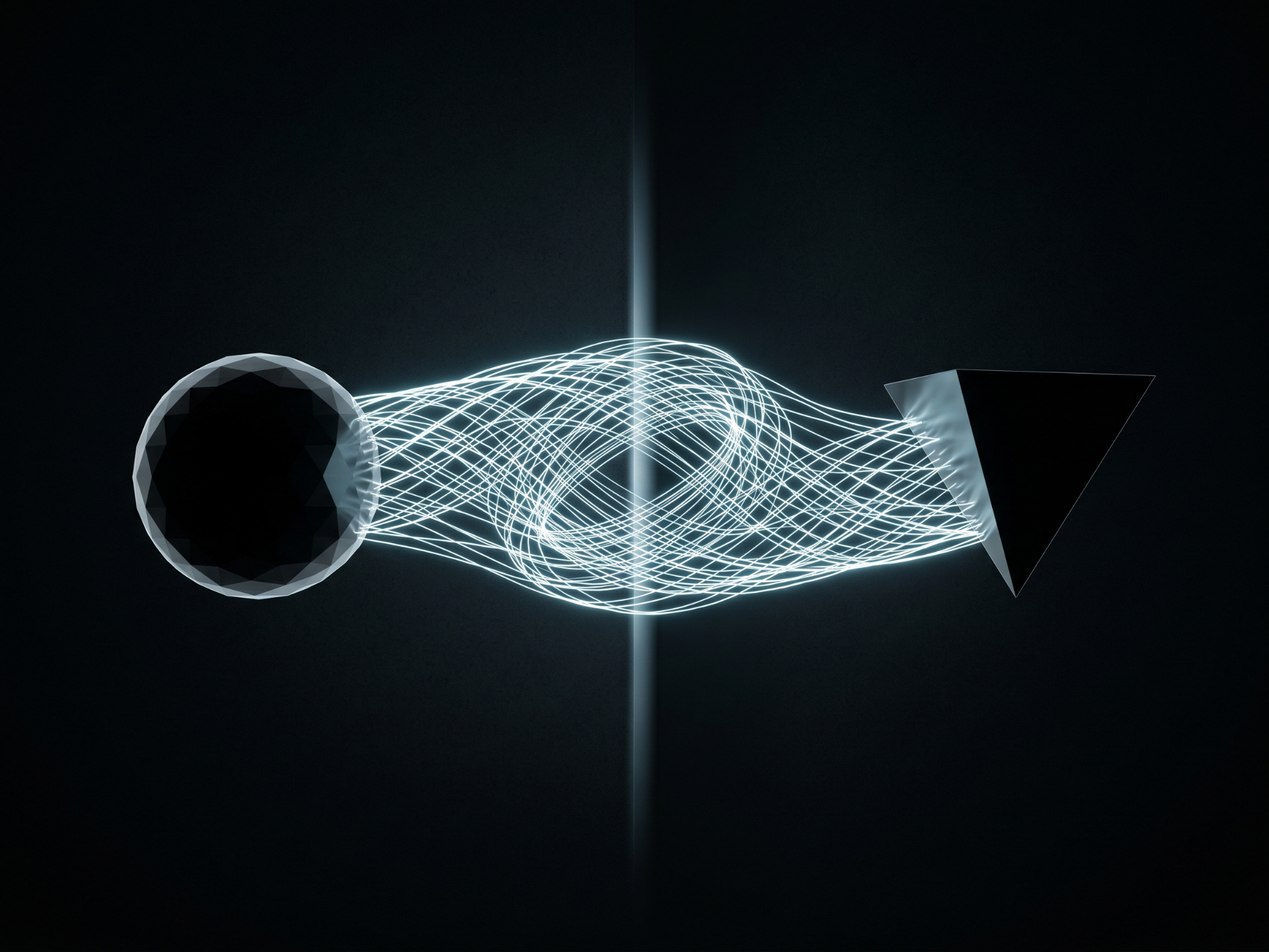
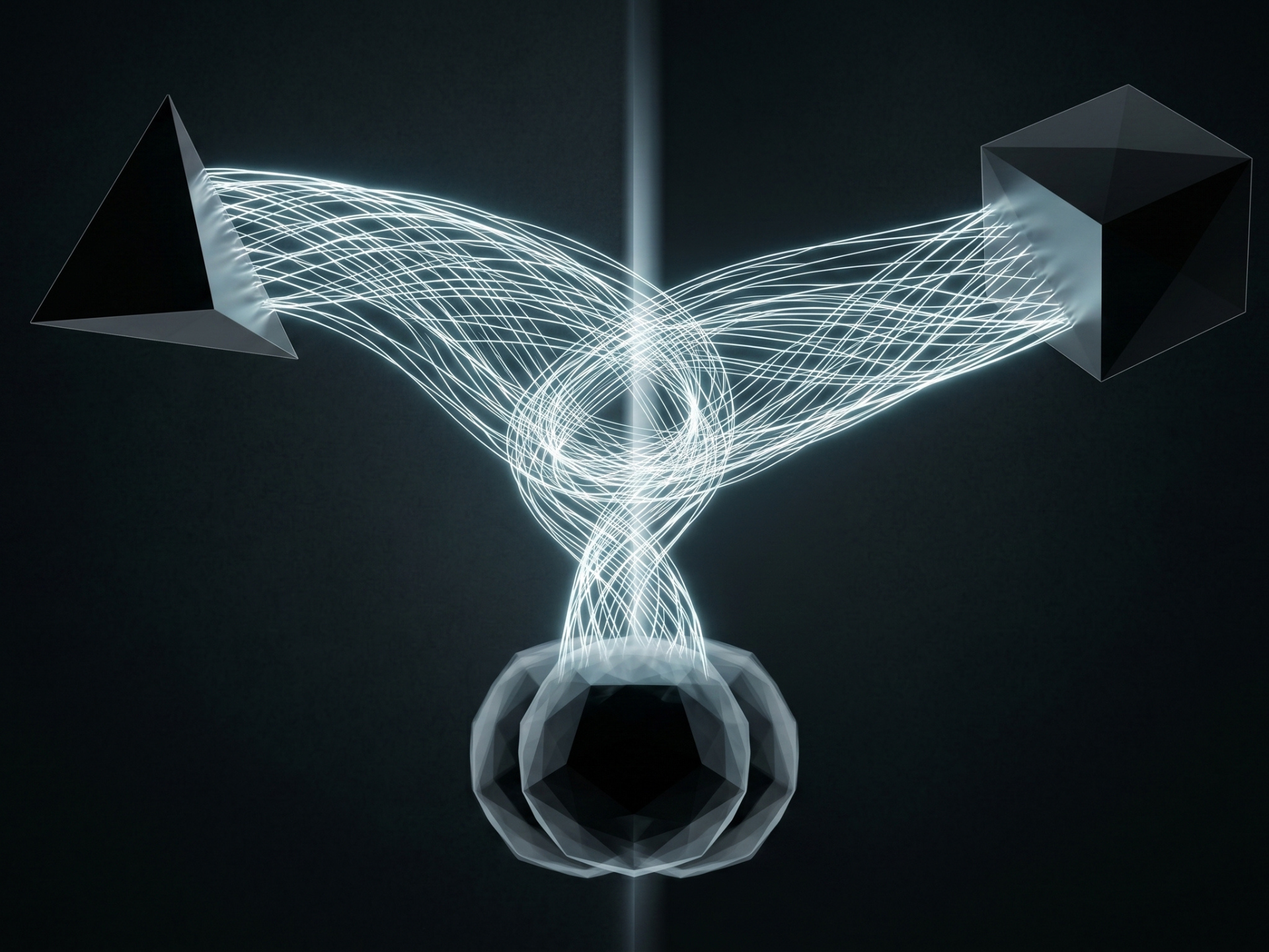
Updated site

diff --git a/public/notes/16.pruebas-conocimiento/index.html b/public/notes/16.pruebas-conocimiento/index.html
@@ -803,12 +803,12 @@
       
         <source
           
-            srcset="/notes/16.pruebas-conocimiento/feature%20pruebas%20-%20conocimiento_hu15342808889232261094.webp 330w,/notes/16.pruebas-conocimiento/feature%20pruebas%20-%20conocimiento_hu302076468594900464.webp 660w
+            srcset="/notes/16.pruebas-conocimiento/feature%20pruebas%20-%20conocimiento_hu4576770039757172892.webp 330w,/notes/16.pruebas-conocimiento/feature%20pruebas%20-%20conocimiento_hu9862964370715835621.webp 660w
             
-              ,/notes/16.pruebas-conocimiento/feature%20pruebas%20-%20conocimiento_hu7465890808314095603.webp 1024w
+              ,/notes/16.pruebas-conocimiento/feature%20pruebas%20-%20conocimiento_hu1569523391543265199.webp 1024w
             
             
-              ,/notes/16.pruebas-conocimiento/feature%20pruebas%20-%20conocimiento_hu8063262253952972930.webp 1320w
+              ,/notes/16.pruebas-conocimiento/feature%20pruebas%20-%20conocimiento_hu9343412628466673134.webp 1320w
             "
           
           sizes="100vw"
@@ -822,13 +822,13 @@
         
         
         
-          src="/notes/16.pruebas-conocimiento/feature%20pruebas%20-%20conocimiento_hu15278902798827181149.png"
-          srcset="/notes/16.pruebas-conocimiento/feature%20pruebas%20-%20conocimiento_hu876523112635532990.png 330w,/notes/16.pruebas-conocimiento/feature%20pruebas%20-%20conocimiento_hu15278902798827181149.png 660w
+          src="/notes/16.pruebas-conocimiento/feature%20pruebas%20-%20conocimiento_hu8401581999442676050.png"
+          srcset="/notes/16.pruebas-conocimiento/feature%20pruebas%20-%20conocimiento_hu10972861285144593126.png 330w,/notes/16.pruebas-conocimiento/feature%20pruebas%20-%20conocimiento_hu8401581999442676050.png 660w
           
-            ,/notes/16.pruebas-conocimiento/feature%20pruebas%20-%20conocimiento_hu11979612244376914458.png 1024w
+            ,/notes/16.pruebas-conocimiento/feature%20pruebas%20-%20conocimiento_hu5442007655515730790.png 1024w
           
           
-            ,/notes/16.pruebas-conocimiento/feature%20pruebas%20-%20conocimiento_hu1991757696374065138.png 1320w
+            ,/notes/16.pruebas-conocimiento/feature%20pruebas%20-%20conocimiento_hu8947195007989067259.png 1320w
           "
           sizes="100vw"
         

diff --git a/public/notes/index.html b/public/notes/index.html
@@ -573,9 +573,9 @@
         <img
           alt=""
           
-            class="w-24 rounded-md sm:w-40" srcset="/notes/16.pruebas-conocimiento/feature%20pruebas%20-%20conocimiento_hu11982890800012912162.png
-            160w,/notes/16.pruebas-conocimiento/feature%20pruebas%20-%20conocimiento_hu18434504839941555512.png 2x"
-            src="/notes/16.pruebas-conocimiento/feature%20pruebas%20-%20conocimiento_hu11982890800012912162.png" width="160" height="120"
+            class="w-24 rounded-md sm:w-40" srcset="/notes/16.pruebas-conocimiento/feature%20pruebas%20-%20conocimiento_hu8405966191365703007.png
+            160w,/notes/16.pruebas-conocimiento/feature%20pruebas%20-%20conocimiento_hu5913706382165335046.png 2x"
+            src="/notes/16.pruebas-conocimiento/feature%20pruebas%20-%20conocimiento_hu8405966191365703007.png" width="160" height="120"
           
           
             loading="lazy"

diff --git a/public/tags/confianza/index.html b/public/tags/confianza/index.html
@@ -411,9 +411,9 @@
         <img
           alt=""
           
-            class="w-24 rounded-md sm:w-40" srcset="/notes/16.pruebas-conocimiento/feature%20pruebas%20-%20conocimiento_hu11982890800012912162.png
-            160w,/notes/16.pruebas-conocimiento/feature%20pruebas%20-%20conocimiento_hu18434504839941555512.png 2x"
-            src="/notes/16.pruebas-conocimiento/feature%20pruebas%20-%20conocimiento_hu11982890800012912162.png" width="160" height="120"
+            class="w-24 rounded-md sm:w-40" srcset="/notes/16.pruebas-conocimiento/feature%20pruebas%20-%20conocimiento_hu8405966191365703007.png
+            160w,/notes/16.pruebas-conocimiento/feature%20pruebas%20-%20conocimiento_hu5913706382165335046.png 2x"
+            src="/notes/16.pruebas-conocimiento/feature%20pruebas%20-%20conocimiento_hu8405966191365703007.png" width="160" height="120"
           
           
             loading="lazy"

diff --git a/public/tags/conocimiento/index.html b/public/tags/conocimiento/index.html
@@ -411,9 +411,9 @@
         <img
           alt=""
           
-            class="w-24 rounded-md sm:w-40" srcset="/notes/16.pruebas-conocimiento/feature%20pruebas%20-%20conocimiento_hu11982890800012912162.png
-            160w,/notes/16.pruebas-conocimiento/feature%20pruebas%20-%20conocimiento_hu18434504839941555512.png 2x"
-            src="/notes/16.pruebas-conocimiento/feature%20pruebas%20-%20conocimiento_hu11982890800012912162.png" width="160" height="120"
+            class="w-24 rounded-md sm:w-40" srcset="/notes/16.pruebas-conocimiento/feature%20pruebas%20-%20conocimiento_hu8405966191365703007.png
+            160w,/notes/16.pruebas-conocimiento/feature%20pruebas%20-%20conocimiento_hu5913706382165335046.png 2x"
+            src="/notes/16.pruebas-conocimiento/feature%20pruebas%20-%20conocimiento_hu8405966191365703007.png" width="160" height="120"
           
           
             loading="lazy"

diff --git a/public/tags/criptografía/index.html b/public/tags/criptografía/index.html
@@ -411,9 +411,9 @@
         <img
           alt=""
           
-            class="w-24 rounded-md sm:w-40" srcset="/notes/16.pruebas-conocimiento/feature%20pruebas%20-%20conocimiento_hu11982890800012912162.png
-            160w,/notes/16.pruebas-conocimiento/feature%20pruebas%20-%20conocimiento_hu18434504839941555512.png 2x"
-            src="/notes/16.pruebas-conocimiento/feature%20pruebas%20-%20conocimiento_hu11982890800012912162.png" width="160" height="120"
+            class="w-24 rounded-md sm:w-40" srcset="/notes/16.pruebas-conocimiento/feature%20pruebas%20-%20conocimiento_hu8405966191365703007.png
+            160w,/notes/16.pruebas-conocimiento/feature%20pruebas%20-%20conocimiento_hu5913706382165335046.png 2x"
+            src="/notes/16.pruebas-conocimiento/feature%20pruebas%20-%20conocimiento_hu8405966191365703007.png" width="160" height="120"
           
           
             loading="lazy"

diff --git a/public/tags/demostración/index.html b/public/tags/demostración/index.html
@@ -411,9 +411,9 @@
         <img
           alt=""
           
-            class="w-24 rounded-md sm:w-40" srcset="/notes/16.pruebas-conocimiento/feature%20pruebas%20-%20conocimiento_hu11982890800012912162.png
-            160w,/notes/16.pruebas-conocimiento/feature%20pruebas%20-%20conocimiento_hu18434504839941555512.png 2x"
-            src="/notes/16.pruebas-conocimiento/feature%20pruebas%20-%20conocimiento_hu11982890800012912162.png" width="160" height="120"
+            class="w-24 rounded-md sm:w-40" srcset="/notes/16.pruebas-conocimiento/feature%20pruebas%20-%20conocimiento_hu8405966191365703007.png
+            160w,/notes/16.pruebas-conocimiento/feature%20pruebas%20-%20conocimiento_hu5913706382165335046.png 2x"
+            src="/notes/16.pruebas-conocimiento/feature%20pruebas%20-%20conocimiento_hu8405966191365703007.png" width="160" height="120"
           
           
             loading="lazy"
